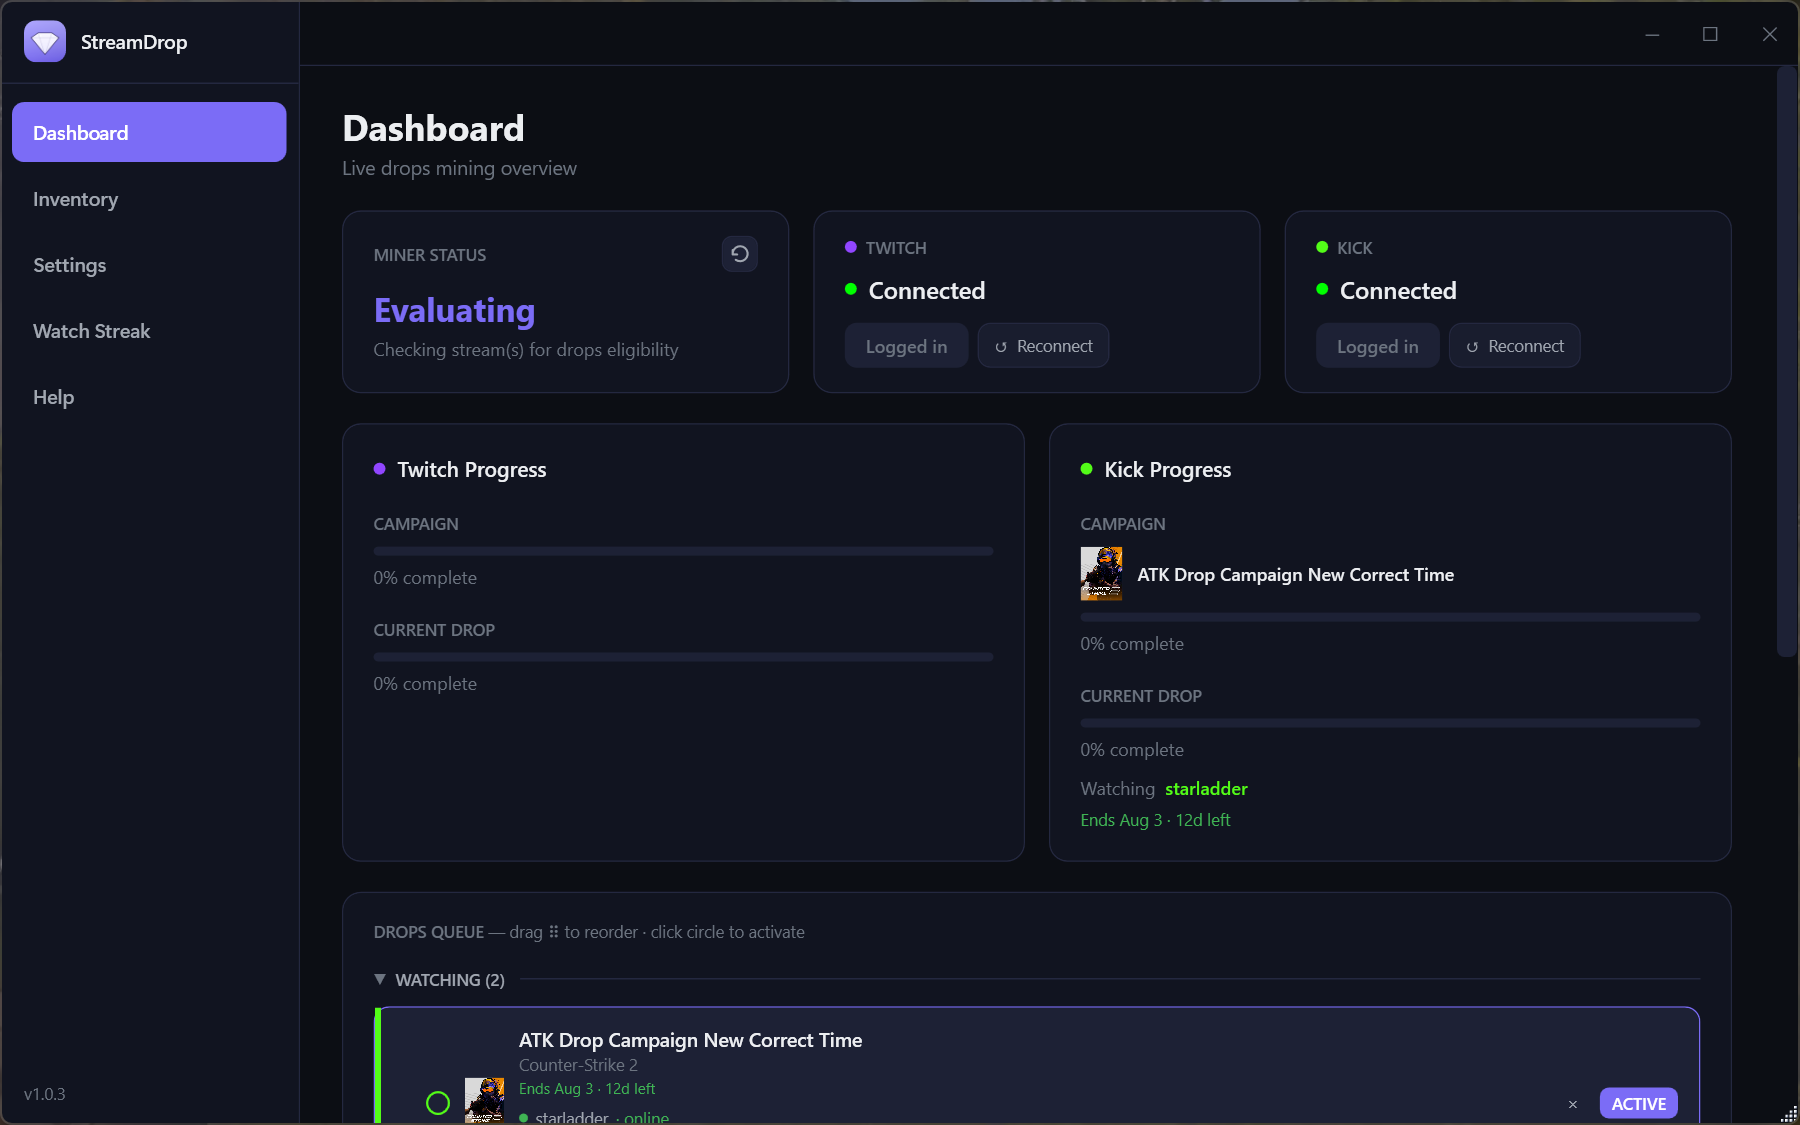
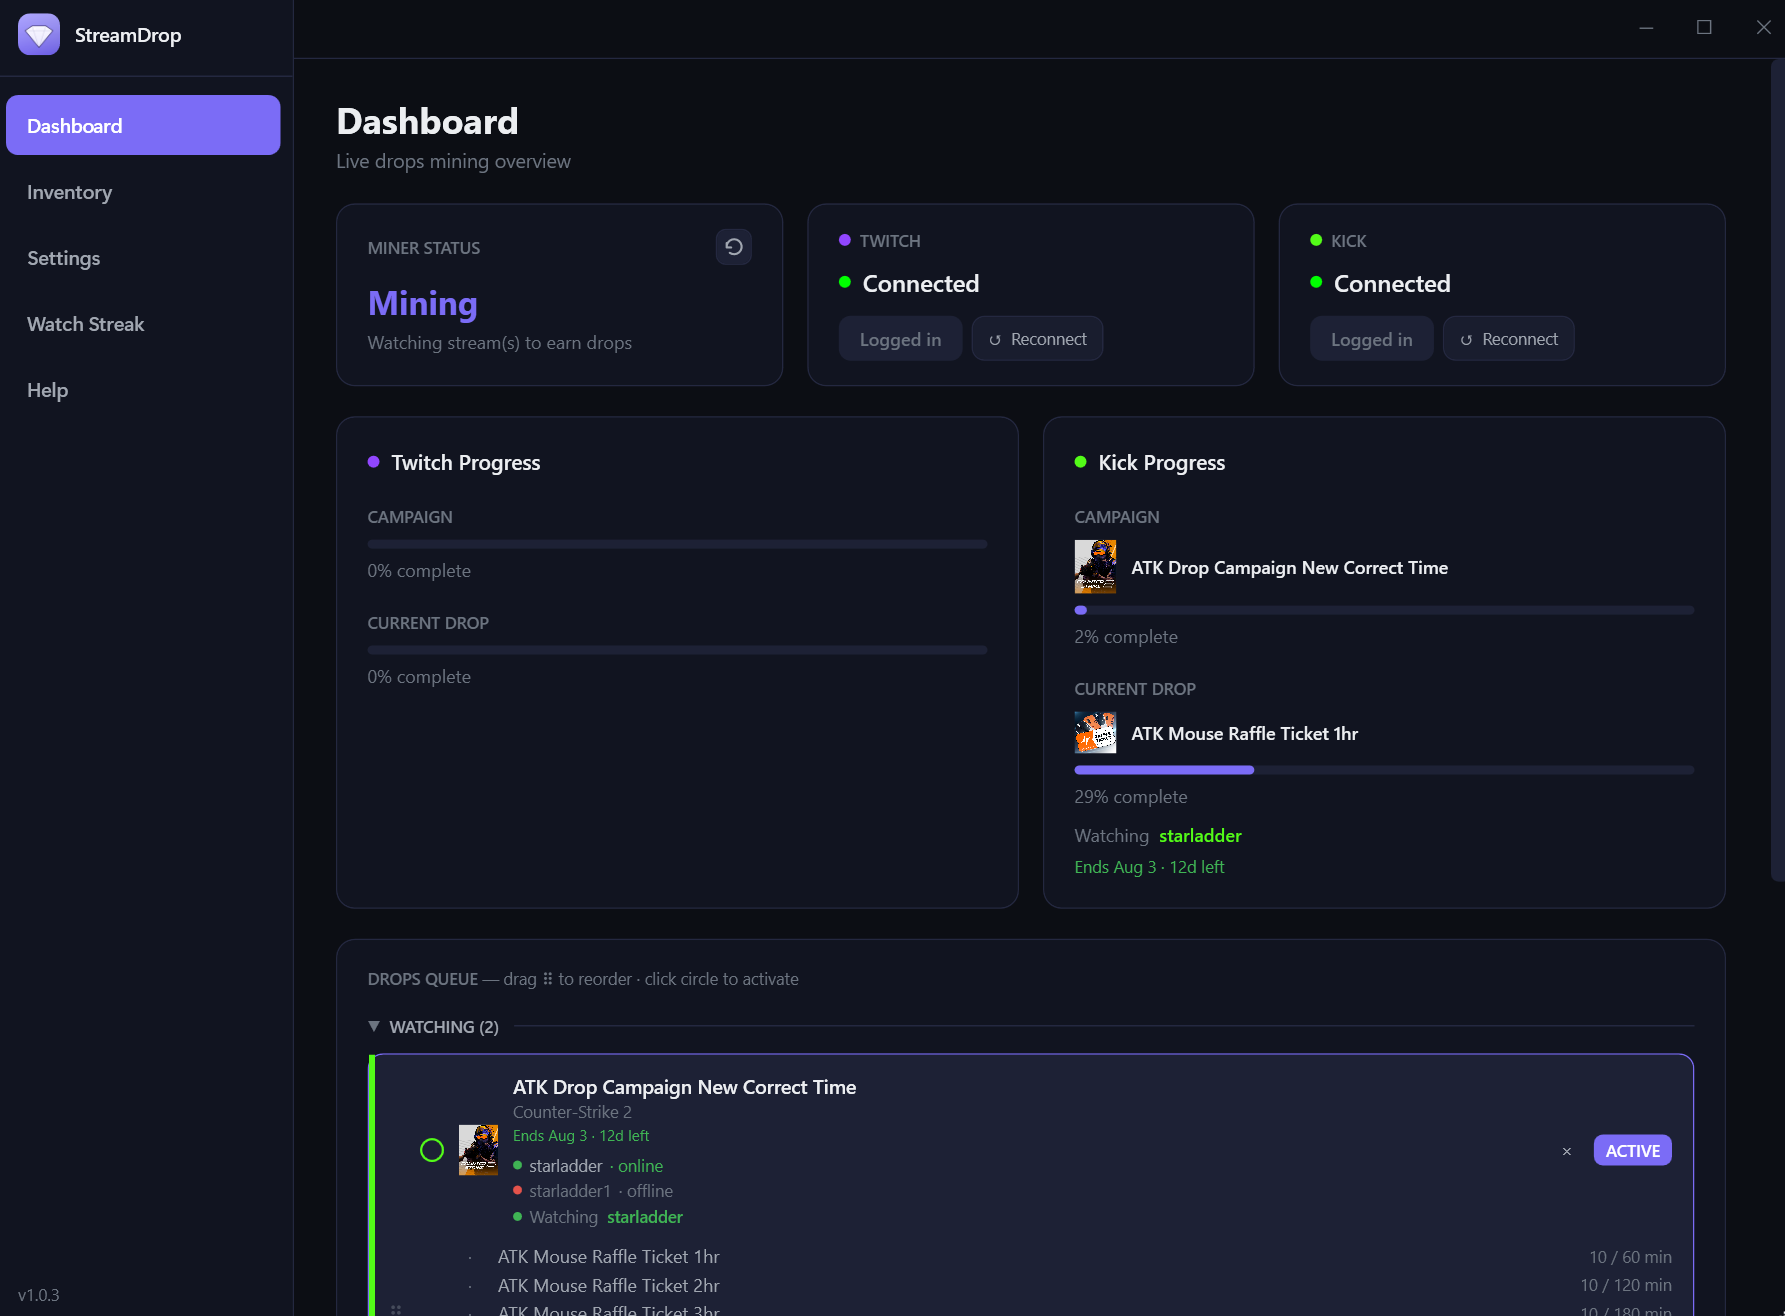
Add current Dashboard/Inventory/Watch Streak screenshots to README

diff --git a/README.md b/README.md
@@ -39,6 +39,11 @@ _Active campaigns and rewards overview_
 
 ---
 
+![Watch Streak](https://github.com/Scuttle-ZapAccess/StreamDropCollector/blob/master/Github-Assets/WatchStreak.png?raw=true)  
+_Queue specific channels to auto-claim their Watch Streak bonus once live_
+
+---
+
 ## Requirements
 
 - Windows 10/11 (64-bit)
